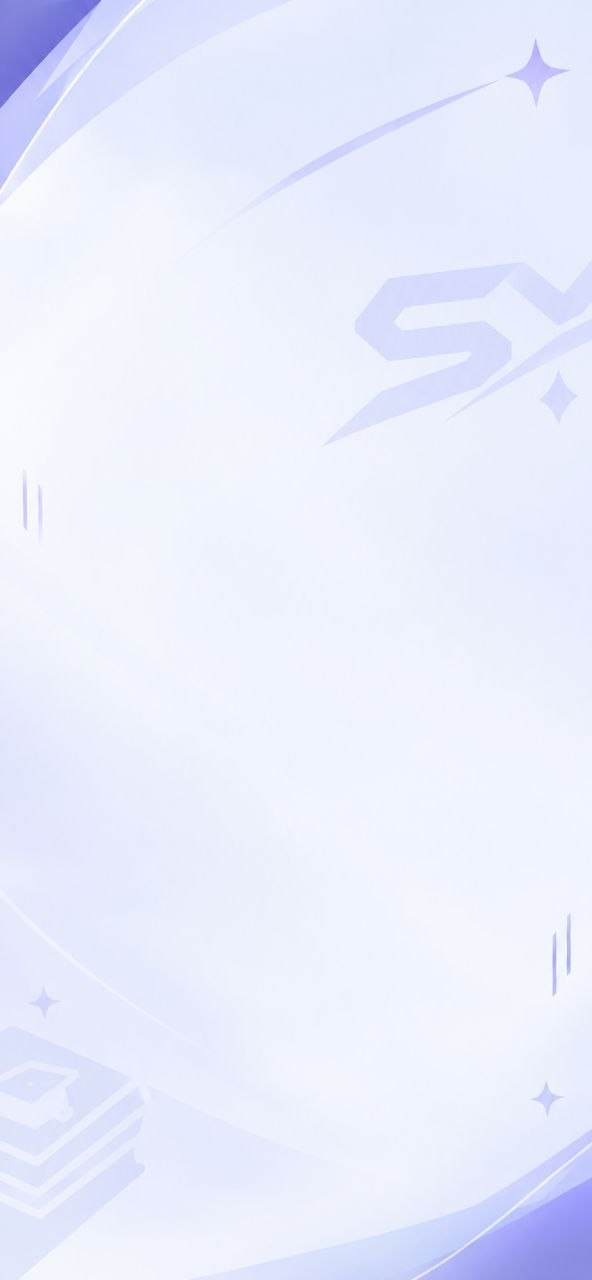
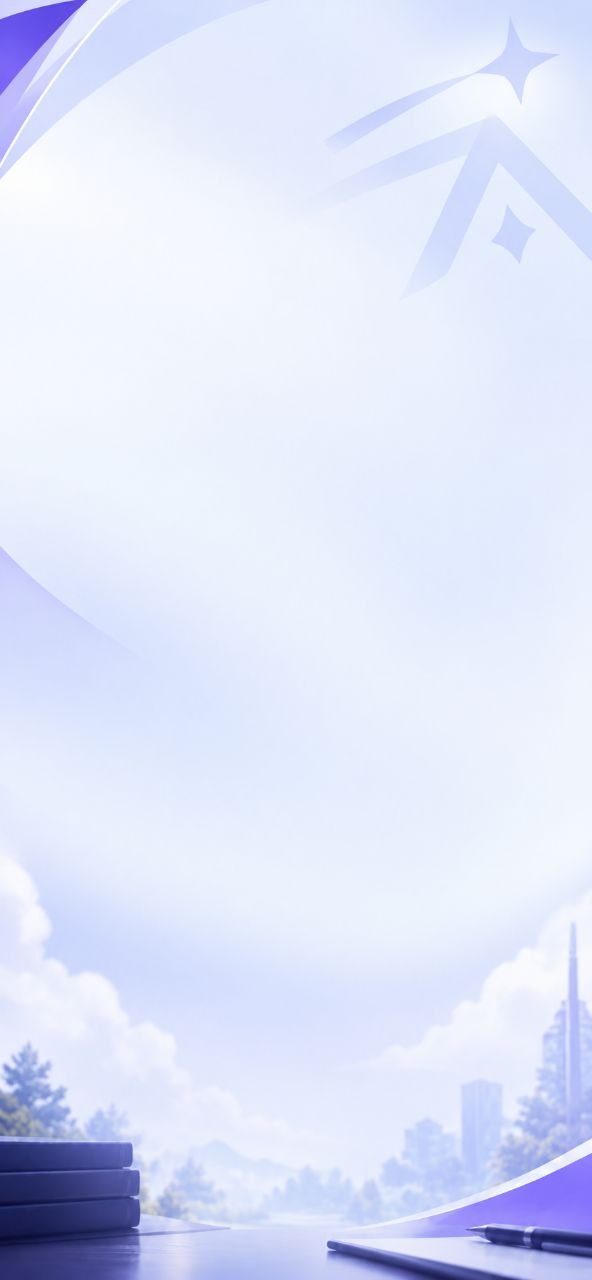
feat(ui): upgrade atmospheric background to high-res poto1 and match poto2 login goal design

diff --git a/src/app/(auth)/login/page.tsx b/src/app/(auth)/login/page.tsx
@@ -1,7 +1,7 @@
 import type { Metadata } from "next";
 import Image from "next/image";
 import { LoginForm } from "./login-form";
-import { ShieldCheck, Cpu, Sparkles, Lock, Radio } from "lucide-react";
+import { ShieldCheck, Sparkles, User, Radio, GraduationCap } from "lucide-react";
 
 export const dynamic = "force-dynamic";
 
@@ -14,51 +14,46 @@ export default function LoginPage() {
   return (
     <div className="relative min-h-screen flex flex-col items-center justify-center bg-transparent px-4 py-8 sm:py-12 selection:bg-blue-600/20 selection:text-blue-700 overflow-x-hidden">
       <div className="relative z-10 w-full max-w-md animate-fade-in space-y-6">
-        {/* Brand & Team Header with 3D Tactile Pod */}
+        {/* Brand & Team Header */}
         <div className="text-center space-y-3">
-          <div className="mx-auto flex items-center justify-center">
-            <div className="relative group">
-              <div className="absolute -inset-1 rounded-3xl bg-gradient-to-tr from-blue-600 to-indigo-500 opacity-20 blur-md group-hover:opacity-30 transition-opacity" />
-              <div className="relative flex h-16 w-16 items-center justify-center rounded-2xl bg-white border border-slate-200/80 shadow-[0_8px_20px_-4px_rgba(15,23,42,0.08),inset_0_1px_1px_rgba(255,255,255,0.9)] p-2.5">
-                <Image
-                  src="/logo_square_192.png"
-                  alt="Logo SMK Muhammadiyah"
-                  width={52}
-                  height={52}
-                  className="object-contain"
-                  priority
-                />
-              </div>
-            </div>
+          <div className="mx-auto flex items-center justify-center pt-2">
+            <Image
+              src="/brand/syntax-slayer-logo.png"
+              alt="SYNTAX SLAYER"
+              width={220}
+              height={56}
+              className="h-10 sm:h-12 w-auto object-contain drop-shadow-xs"
+              priority
+            />
           </div>
 
           <div className="space-y-1">
-            <div className="inline-flex items-center gap-1.5 rounded-full border border-blue-200/60 bg-blue-50/80 px-3 py-0.5 text-[11px] font-semibold text-blue-700 shadow-xs">
-              <Sparkles className="h-3 w-3 text-blue-600" />
+            <div className="inline-flex items-center gap-1.5 rounded-full border border-blue-200/80 bg-blue-50/90 px-3.5 py-1 text-xs font-semibold text-blue-700 shadow-xs">
+              <GraduationCap className="h-3.5 w-3.5 text-blue-600" />
               <span>Sistem Akademik Terpadu</span>
             </div>
-            <h1 className="text-2xl sm:text-3xl font-bold tracking-tight text-slate-900 pt-1">
+            <h1 className="text-3xl sm:text-4xl font-extrabold tracking-tight text-slate-900 pt-1">
               Smart Learning
             </h1>
-            <p className="text-xs sm:text-sm text-slate-500 font-normal max-w-xs mx-auto">
+            <p className="text-xs sm:text-sm text-slate-500 font-medium max-w-xs mx-auto">
               Presensi Digital & Portal Pembelajaran
             </p>
           </div>
         </div>
 
-        {/* 3D Ceramic Authentication Card */}
-        <div className="card-3d-ceramic rounded-3xl p-6 sm:p-7 shadow-[0_4px_6px_-1px_rgba(15,23,42,0.02),0_16px_32px_-4px_rgba(30,41,59,0.08),0_32px_64px_-12px_rgba(15,23,42,0.06)] border border-slate-200/80 border-t border-t-white/90">
+        {/* 3D Elevated Authentication Card */}
+        <div className="rounded-[26px] bg-white p-6 sm:p-7 shadow-[0_12px_36px_-6px_rgba(15,23,42,0.09),0_2px_6px_rgba(15,23,42,0.04)] border border-slate-200/80">
           <div className="mb-5 flex items-center justify-between border-b border-slate-100 pb-3">
             <div>
               <h2 className="text-base font-bold text-slate-900 tracking-tight flex items-center gap-1.5">
-                <Lock className="w-4 h-4 text-blue-600" />
+                <User className="w-4 h-4 text-blue-600" />
                 Masuk ke Akun
               </h2>
               <p className="text-xs text-slate-500 mt-0.5 font-normal">
                 Masukkan identitas akun untuk melanjutkan
               </p>
             </div>
-            <span className="inline-flex items-center gap-1.5 text-xs font-medium px-2.5 py-1 rounded-full bg-emerald-50 text-emerald-700 border border-emerald-200/60">
+            <span className="inline-flex items-center gap-1.5 text-xs font-semibold px-2.5 py-1 rounded-full bg-emerald-50 text-emerald-700 border border-emerald-200/60">
               <span className="w-1.5 h-1.5 rounded-full bg-emerald-500" />
               Aktif
             </span>
@@ -67,9 +62,9 @@ export default function LoginPage() {
           <LoginForm />
         </div>
 
-        {/* 3-Column Value Proposition Chips (Proton Vault Reference Screen 1) */}
+        {/* 3-Column Value Proposition Chips */}
         <div className="grid grid-cols-3 gap-2">
-          <div className="rounded-2xl bg-white/80 backdrop-blur-sm border border-slate-200/70 p-2.5 text-center shadow-xs flex flex-col items-center gap-1">
+          <div className="rounded-2xl bg-white/90 backdrop-blur-sm border border-slate-200/70 p-2.5 text-center shadow-xs flex flex-col items-center gap-1">
             <div className="w-7 h-7 rounded-xl bg-blue-50 border border-blue-100 flex items-center justify-center text-blue-600">
               <Sparkles className="w-3.5 h-3.5" />
             </div>
@@ -77,7 +72,7 @@ export default function LoginPage() {
             <span className="text-[9px] text-slate-500 font-medium">Auto Telemetri</span>
           </div>
 
-          <div className="rounded-2xl bg-white/80 backdrop-blur-sm border border-slate-200/70 p-2.5 text-center shadow-xs flex flex-col items-center gap-1">
+          <div className="rounded-2xl bg-white/90 backdrop-blur-sm border border-slate-200/70 p-2.5 text-center shadow-xs flex flex-col items-center gap-1">
             <div className="w-7 h-7 rounded-xl bg-emerald-50 border border-emerald-100 flex items-center justify-center text-emerald-600">
               <ShieldCheck className="w-3.5 h-3.5" />
             </div>
@@ -85,7 +80,7 @@ export default function LoginPage() {
             <span className="text-[9px] text-slate-500 font-medium">GPS Geofence</span>
           </div>
 
-          <div className="rounded-2xl bg-white/80 backdrop-blur-sm border border-slate-200/70 p-2.5 text-center shadow-xs flex flex-col items-center gap-1">
+          <div className="rounded-2xl bg-white/90 backdrop-blur-sm border border-slate-200/70 p-2.5 text-center shadow-xs flex flex-col items-center gap-1">
             <div className="w-7 h-7 rounded-xl bg-indigo-50 border border-indigo-100 flex items-center justify-center text-indigo-600">
               <Radio className="w-3.5 h-3.5" />
             </div>
@@ -94,14 +89,21 @@ export default function LoginPage() {
           </div>
         </div>
 
-        {/* Footer info & Security Guarantee */}
-        <div className="pt-2 pb-10 sm:pb-4 flex flex-col items-center gap-1.5 text-center">
-          <div className="inline-flex items-center gap-1.5 text-xs text-slate-500">
-            <ShieldCheck className="h-3.5 w-3.5 text-blue-600" />
-            <span>Keamanan data & privasi terenkripsi standar institusi</span>
+        {/* Divider with Sparkle Accent */}
+        <div className="relative flex items-center justify-center py-1">
+          <div className="w-full border-t border-slate-300/60" />
+          <div className="absolute bg-[#F8FAFC]/90 backdrop-blur-xs px-2.5 text-blue-500">
+            <Sparkles className="w-3.5 h-3.5 fill-blue-500/20" />
           </div>
-          <p className="text-xs text-slate-400">
-            © 2026 Smart Learning • Platform Pendidikan Digital Terintegrasi
+        </div>
+
+        {/* Motivational Quote & Signature */}
+        <div className="text-center space-y-1 pb-12 sm:pb-6">
+          <p className="text-xs italic text-slate-600 font-medium">
+            “Ilmu adalah senjata terbaik untuk masa depan.”
+          </p>
+          <p className="text-[10px] tracking-widest font-bold uppercase text-slate-400">
+            SYNTAX SLAYER
           </p>
         </div>
       </div>

diff --git a/src/components/layout/ambient-background.tsx b/src/components/layout/ambient-background.tsx
@@ -27,22 +27,22 @@ export function AmbientBackground({
 
       {/* 2. Educational Atmospheric Base Image */}
       <div
-        className={`absolute inset-0 transition-opacity duration-700 ease-out ${opacityMap[intensity]} mix-blend-multiply contrast-[1.02] saturate-[1.05]`}
+        className={`absolute inset-0 transition-opacity duration-700 ease-out ${opacityMap[intensity]} contrast-[1.02] saturate-[1.05]`}
       >
         <Image
-          src="/assets/backgrounds/academic-atmosphere.jpg"
+          src="/assets/backgrounds/poto1.png"
           alt=""
           fill
           priority
           sizes="100vw"
-          quality={90}
-          className="object-cover object-center"
+          quality={100}
+          className="object-cover object-bottom"
         />
       </div>
 
       {/* 3. Central Luminous Mask / Radial Diffuse Gradient
-          Creates high-contrast, calm negative space in the center so text, cards, and data remain 100% sharp and readable */}
-      <div className="absolute inset-0 bg-[radial-gradient(ellipse_at_center,rgba(255,255,255,0.72)_0%,rgba(248,250,252,0.85)_50%,rgba(241,245,249,0.92)_100%)] backdrop-blur-[0.5px]" />
+          Creates high-contrast, calm negative space in the center for cards while preserving the books & desk at the bottom */}
+      <div className="absolute inset-0 bg-[radial-gradient(ellipse_at_50%_38%,rgba(255,255,255,0.85)_0%,rgba(255,255,255,0.45)_50%,rgba(255,255,255,0.05)_85%,transparent_100%)] pointer-events-none" />
 
       {/* 4. Spatial Depth Ambient Blooms
           Soft optical blooms matching the lavender, indigo, and periwinkle ribbons of the artwork */}
